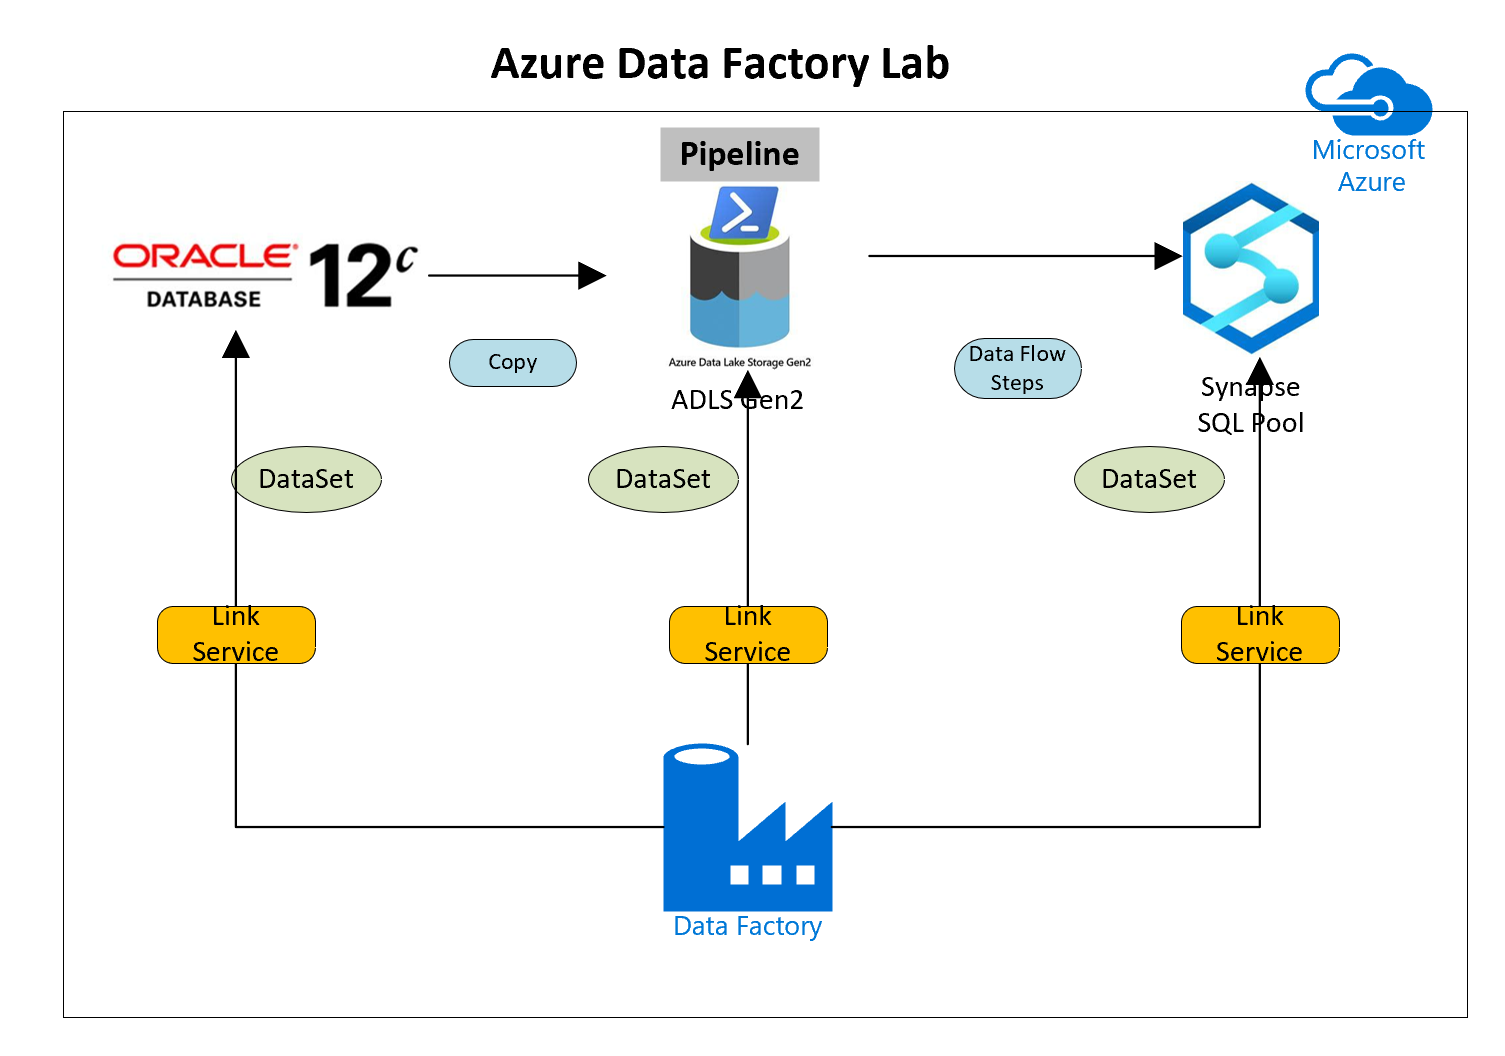
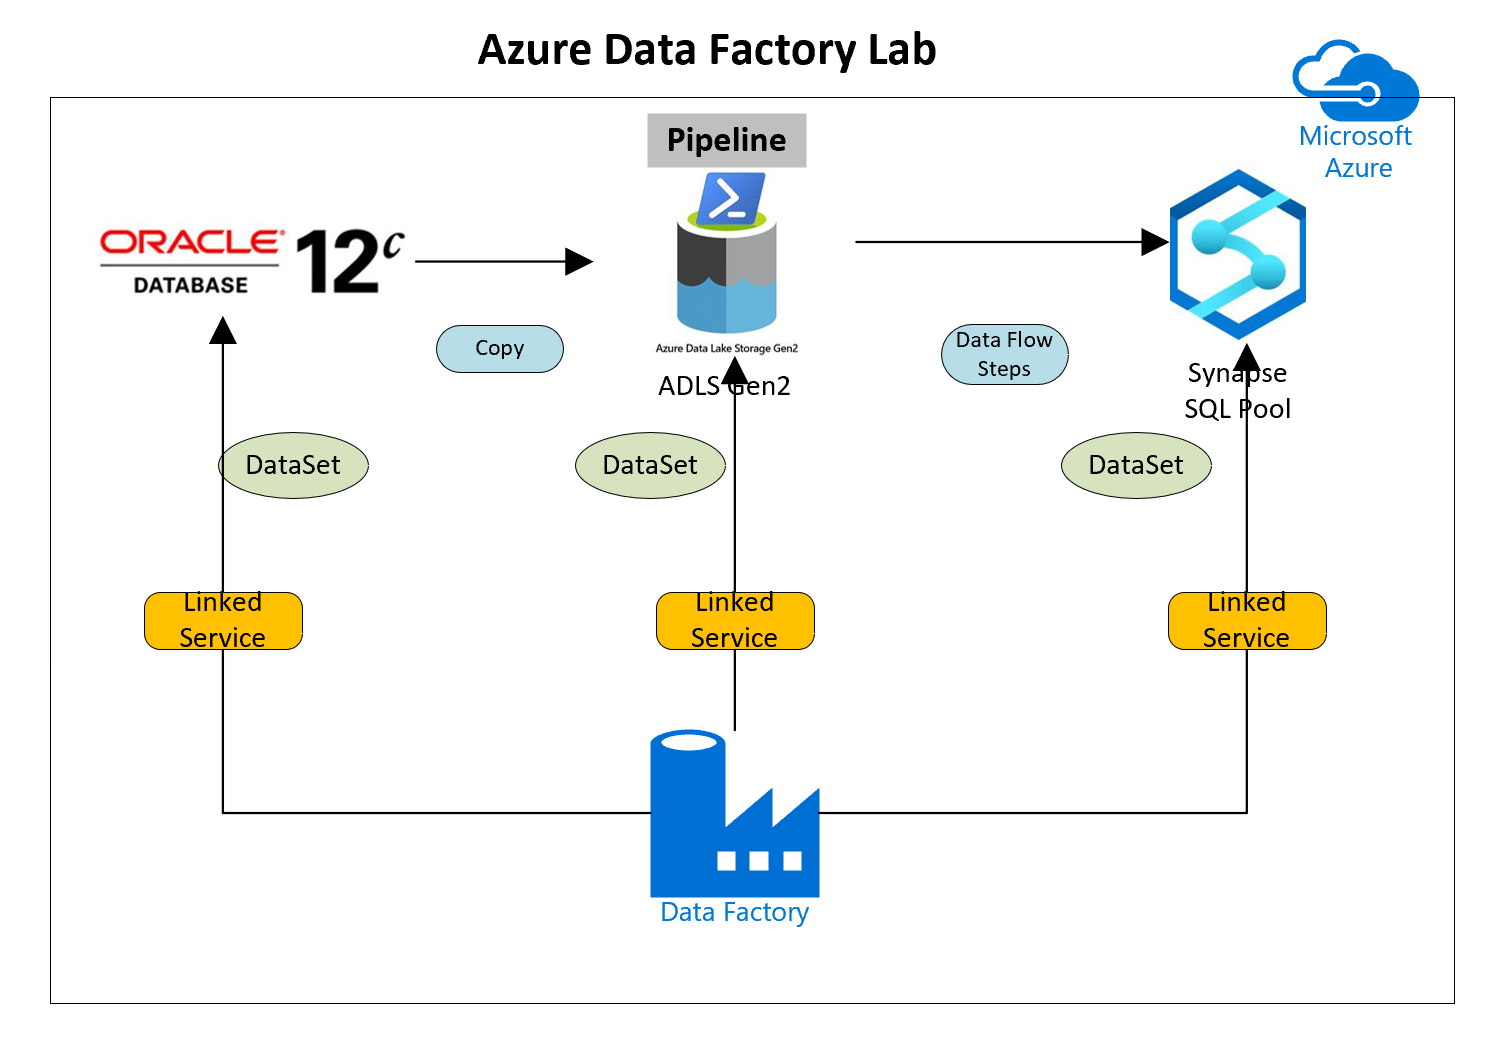
Review the content and made formatting changes.

diff --git a/month2/labs/lab_adf/README.md b/month2/labs/lab_adf/README.md
@@ -1,12 +1,12 @@
 # Azure Trailblazer Academy Azure Data Factory (ADF) Lab
 ## Overview
-Azure Data Factory is the PaaS cloud-based ETL & data integration tool allows you to create data driven workflows in the cloud for orchestrating and automating data movement and data transformation. 
+Azure Data Factory is a PaaS cloud-based ETL & data integration tool allows you to create data driven workflows in the cloud for orchestrating and automating data movement and data transformation. 
 
-Big data requires service that can orchestrate and operationalize processes to refine these enormous stores of raw data into actionable business insights.
+It is a great tool to orchestrate big data and operationalize processes to refine these enormous stores of raw data into actionable business insights.
 
 ## Lab Overview
 This lab will help you gain the experience to ingest data from on-premises databases such as Oracle, SAP, Teradata, Hortonworks, DB2, SQL Server and Cloudera to Azure Data storage, databases and data warehouses services. 
-It will showcase the steps to build a pipeline inside ADF to ingest the data into ADLS GEN2 storage and secure the PII data using data transformation functions inside the Data Flow activity and finally store the data in Synapse SQL Pool (Data warehouse) for building BI dashboard. 
+It will showcase the steps to build a pipeline using ADF to ingest the data into ADLS GEN2 storage and secure the PII data using data transformation functions using the Data Flow activity and finally store the data in Synapse SQL Pool (Data warehouse) for building BI dashboards. 
 
 <img src="./images/ata-adf-lab-architecture.png" alt="Data factory lab architecture diagram" width="600">
 
@@ -16,15 +16,15 @@ It will showcase the steps to build a pipeline inside ADF to ingest the data int
 - Write Access to Synapse SQL Pool Data warehouse  
 
 ## Automated Deployment
-We try to help with the automated deployment to create Azure srevices. Press the "*Deploy to Azure*" button below, to provision the Azure Services required required for this lab.
+This automated deployment script will create thre required Azure srevices for this lab. Press the "*Deploy to Azure*" button below.
 
 <a href="https://portal.azure.com/#create/Microsoft.Template/uri/https%3A%2F%2Fraw.githubusercontent.com%2Fmicrosoft%2FAzureTrailblazerAcademy%2Fmaster%2Fmonth2%2Flabs%2Flab_data%2Fscripts%2Flab2_data_deployment.json" target="_blank"><img src="https://azuredeploy.net/deploybutton.png"/></a>
 
-- Enter the following information
+Enter the following information
 - Subscription: Enter your subscription.
-- Resource group: Select 'Create new' under Resource group. Enter 'ata-adf-lab-/<yourname/>-rg'
+- Resource group: Select 'Create new' under Resource group. Enter 'ata-adf-lab-\<YourName\>-rg'
 - Region: Select 'East US'.
-- SQL_Server Name:Enter 'ata-adf-lab-sql-/<yourname/>'
+- SQL_Server Name:Enter 'ata-adf-lab-sql-\<YourName\>'
 - Server_location:Enter 'eastus'
 
 <img src="./images/adf-custom-deployment.png" alt="Enter the required info to run the custom deployment" width="600">
@@ -32,15 +32,15 @@ We try to help with the automated deployment to create Azure srevices. Press the
 - AdministratorLogin:'azureadmin'
 - Administrator Login Password:'Ataadf123!'
 - Database Name:'ataadflabsqldb'
-- Storage_Accounts_Data Lake Gen2:'ataadflabstorage/<srini/>/
+- Storage_Accounts_Data Lake Gen2:'ataadflabstorage\<YourName\>/
 - Click on 'Review and Create'
 - Click on 'Create'
 
-- Please check if it created the following services after successful deploypment.
+Please check if it created the following services after successful deploypment.
 
 <img src="./images/adf-custom-deployed-services.png" alt="Customer deployed Azure Services" Width="600">
 
-- We will provide temporary access to an Oracle database for completing this lab in the class.
+Temporary access to an Oracle database for completing this lab will be provided in the class.
 
 ## Task List
 - [Task-1: Create Azure Data Factory Service](#task-1-create-azure-data-factory-service)
@@ -55,30 +55,33 @@ We try to help with the automated deployment to create Azure srevices. Press the
 - Select 'Data factories' and select 'add' to create a new service
 
 Provide the following info: 
-- Name: 'ata-adf-lab-\<yourname\>'
-- Subscription: Make sure it selected the correct subscription
-- Select 'ata-adf-lab-\<yourname\>', the resource group you have created with custom deployment. 
+- Name: 'ata-adf-lab-\<YourName\>'
+- Subscription: Make sure to select your subscription
+- Select 'ata-adf-lab-\<YourName\>', the resource group you have created with custom deployment. 
 - Location: select 'East US'
 - Enable GIT: uncheck the box
+
 Click on 'Create' button  
 
 <img src="./images/adf-main-service-create.png" alt="Create ADF Service" width="600">
+
 2. Open ADF Author Tool
-- select 'Go to resource' when it completes the deployment
-- select 'Author & Monitor' in the middle of the screen
+- Select 'Go to resource' when it completes the deployment.
+- Select 'Author & Monitor' in the middle of the screen.
 
 <img src="./images/adf-select-author.png" alt="Select Author & Monitor" width="600">
 
-opens up a new tab introducing the drag and drop interface to build pipelines
+Opens up a new tab introducing the drag and drop interface to build pipelines.
 
 <img src="./images/adf-select-create-pipeline.png" alt="select create pipeline" width="600">
 
 ### Task-2: Create linked services
-You will be creating connection link services to sync and source systems such as Oracle, ADLS Gen2 and Synapse. 
+You will be creating connection linked services to sync and source systems such as Oracle, ADLS Gen2 and Synapse in this task. 
 1. Create Oracle Linked Service
 - select Management hub (ToolBox) icon on the left and select 'Linked Services' under Connections section.  
 - Select 'New' under Linked Services
 - search for 'Oracle' under 'Data Store' and select 'Oracle Database' and click on 'Continue'
+
 Enter the following Oracle Connect Info:
 - Name: Enter 'OracleDB12cHR'
 - Leave the default 'Connection string' option
@@ -92,7 +95,8 @@ Enter the following Oracle Connect Info:
 <img src="./images/adf-oracle-connect-info.png" alt="Enter Oracle Connect Info" width="600">
 
 - Select 'test connection' to verify the successful connection
-Click on 'Create' button to create the Oracle linked service
+
+Click on 'Create' button to create the Oracle linked service.
 
 2. Create ADLS Gen2 Storage Linked Service
 - Select 'New' under Linked Services
@@ -115,11 +119,12 @@ Click on 'Create' after successful connection to create the ADLS Gen2 storage li
 
 Enter the folowing info:
 - Name: Enter 'SynapseDBHR'
-- Server name: select 'ata-adf-lab-sql-/<yourname/>'
+- Server name: select 'ata-adf-lab-sql-\<yourname\>'
 - Database name: select 'ataadflabsqldb'
 - User name: enter 'azureadmin'
 - Password: enter the default 'ataadf123!'
-- Click on 'test connect' to test the connection
+- Click on 'test connect' to test the connection.
+
 Click on 'Create' after the successful connection to create the Synapse linked service
 
 <img src="./images/adf-synapse-sink-db-connect-info.png" alt="Enter Synapse sink db connect info" Width="600">
@@ -127,13 +132,14 @@ Click on 'Create' after the successful connection to create the Synapse linked s
 You have successfully created connection linked services to Oracle, ADLS Gen2 and Synapse SQL Pool.
 
 ### Task-3: Copy Oracle HR Emplyee data to Azure Storage
-We have established the connection services to the source Oracle DB and the sink Azure storage, we can create a copy activity to ingest the data.
+We have established the connection services to the source Oracle DB and the sink Azure storage, you will create a copy activity to ingest the data from Oracle to Azure Storage in this task.
+
 1. Select 'Pencil' icon on the left and select three dots next to pipelines to select 'new pipeline' action. 
-- name the pipeline as 'IngestOracleHREmployeeData' under the properties section on the right side.
-- Drag the 'Copy data' from 'Move & transform' section under 'Activities' list to the convas in the middle.
+- Name the pipeline as 'IngestOracleHREmployeeData' under the properties section on the right side.
+- Drag the 'Copy data' from 'Move & transform' section under 'Activities' list to the convas in the middle of the screen.
 - Name the copy activity as 'OracleHREmpToGen2' below the convas under the 'General' tab
 
-<img src="./images/adf-copy-hr-emp-adls-gen2.png" alt="Copy activity to get Oracle HR Emp data to Gen2" width="600">
+<img src="./images/adf-copy-hr-emp-adls-gen2.png" alt="Copy activity to get Oracle HR Emp data to Gen2" width="900">
 
 2. Select 'Source' tab next to 'General' to define the source system. 
 - Select 'New' to create a new source dataset
@@ -143,7 +149,7 @@ We have established the connection services to the source Oracle DB and the sink
 - Select the 'OracleDB12cHR' linked service and click on 'Test connection' to test the connectivity.
 - Filter table list by typing 'hr.emp' and select 'HR.EMPLOYEES' table and select 'Preview data'.
 
-<img src="./images/adf-copy-select-hr-employee-table.png" alt="select Oracle HR table as the source data set" width="600">
+<img src="./images/adf-copy-select-hr-employee-table.png" alt="select Oracle HR table as the source data set" width="900">
 
 Make sure you are able to see the employee data 
 
@@ -153,10 +159,11 @@ Make sure you are able to see the employee data
 - Select 'Open' to define the sink dataset
 - Select 'Delimited Text' as the format and click on 'Continue'
 - Name the dataset as 'Gen2HREmpData'
-- select the 'Gen2HRStorage' linked service
+- select the 'Gen2HRStorage' linked service.
+
 You will have to enter the file system and directory path. 
-First we need to create the directory path in the storage accont. Leave this browser tab as is and switch to the Azure Services tab in the browser.  
-- Access storage account and open up the 'storage explorer' to create 'hr' under 'data' file system and create 'employee' as a subfolder under 'hr' folder.
+- First we need to create the directory path in the storage accont. Leave this browser tab as is and switch to the Azure Services tab in the browser.  
+- Access storage account and open up the 'storage explorer' to create 'hr' under 'data' file system and create 'Employee' as a subfolder under 'hr' folder.
 
 <img src="./images/adf-storage-create-employee-folder.png" alt="Gen2 storage create employee folder" width="600">
 
@@ -164,8 +171,8 @@ Switch back to ADF author browser and enter 'data' and 'hr/Empolyee' as the File
 
 <img src="./images/adf-copy-sink-gen2-dataset.png" alt="create sink gen2 data set" width="600">
 
-- select it again under Datasets to set the first row as the header.
-- check the box 
+- Select it again under Datasets section on the left to set the first row as the header.
+- Check the box 
 
 <img src="./images/adf-copy-sink-gen2-row-header.png" alt="sink-gen2-check-header-row" width="600">
 
@@ -175,35 +182,42 @@ Switch back to ADF author browser and enter 'data' and 'hr/Empolyee' as the File
 
 <img src="./images/adf-copy-trigger-activity.png" alt="execture copy activity to ingest data" width="600">
 
-5. Verify the data ingestion in ADLS Gen2 storage
+5. Verify the data ingestion in ADLS Gen2 storage.
+
 Switch to Azure services tab and access the storage account.
 - open up the 'Storage Explorer' and access the data file syste and drill down to 'hr' and 'Employee' folder. 
-- Confirm the 'HR.EMPLOYEES.txt' file. Double click on the file to download and view the file.
+- Confirm the 'HR.EMPLOYEES.txt' file. Double click on the file to download and view the data.
+
 You can see how the phone numbers are ingested as text. This is PII data and we should protect this data. 
 
 <img src="./images/adf-storage-ingest-confirm.png" alt="Verify data ingestion to Gen2 from Oracle" width="600">
 
 ### Task-4: Secure PII Employee data with Data Flows
-We have notieced the PII data we just ingested into ADLS Gen2 storage. Let us see how we can secure the PII data using the Data flow functionality.
- 
-- Drag and drop the data flow activity into the canvas from the Move&Transform section.
+We have noticed the PII data we just ingested into ADLS Gen2 storage. You will secure the PII data using the Data flow functionality in this task.
+ 1. Create Source data
+- Drag and drop the data flow activity into the canvas from the 'Move&Transform' section.
 - select 'create new data flow' and select 'Mapping Data Flow' optin and click on 'Ok'.
 
-<img src="./images/adf-dataflow-create-new.png" alt="create a new data flow" width="600">
+<img src="./images/adf-dataflow-create-new.png" alt="create a new data flow" width="400">
 
 - Select "Source" data
-- Name the data flow as 'SecurePIIdata'
-- Provide the following information under 'Source settings' tab
+- Name the data flow as 'SecurePIIdata'.
+
+Provide the following information under 'Source settings' tab:
 - Output stream name:Gen2HrEmpDataOut
 - Source type - Select 'Dataset'
 - Dataset - Select 'Gen2HREmpData'
 
 <img src="./images/adf-dataflow-source-settings.png" alt="Provide source settings info" width="600">
 
-- To preview data we need to turn on the dataflow debug option and need to click on 'Import projections' in 'Projections' tab.
+2. Turn on Dataflow Debug functionality to test the modifications.
+
+- To preview data we need to turn on the dataflow debug option. 
+- Click on 'Import projections' in the 'Projections' tab to view all the columns.
 
 <img src="./images/adf-dataflow-turnon-debug-import-projections.png" alt="Turn on the debug option and import projections" width="500">
 
+3. Create a data flow step to hash the first 6 digits of the phone number.
 - Add another data flow step to secure the phone number by selecting '+' sign and select 'Drived Column' under 'Schema modifier' section.
 
 <img src="./images/adf-dataflow-derived-column.png" alt="Select derived column" width="600">
@@ -220,13 +234,13 @@ We have notieced the PII data we just ingested into ADLS Gen2 storage. Let us se
 
 <img src="./images/adf-dataflow-regreplace-function.png" alt="Enter RegEx Replace function" width="800">
 
-- We are now ready to output the transformed data into Synapse SQL Pool
-- Select '+' and select 'Sink' in the 'Destination' section. Last one in the list.
+4. Create 'HR' schema in Azure Synapse Analytics.
 
-- Create HR schema in the destination to store the results
-- Switch to Azure Services tab and select Azure Synapse Analytics 'ataadflabsqldb' we have created
--  select 'Query editor' on the left and enter the 'azureadmin' as the user and 'Ataadf123!' as the password.
-- It may error out since it is protecting the access to 'Query editor'. Take the IP address from the error and add it to the firewall.
+We need to create 'HR' schema in the 'Azure Synapse Analytics' service to store the results
+- Switch to Azure Services tab and select Azure Synapse Analytics 'ataadflabsqldb' we have created with the auto deployment step.
+
+-  Select 'Query editor' on the left and enter the 'azureadmin' as the user and 'Ataadf123!' as the password.
+- It will error out since it is protecting the access to 'Query editor'. Copy the IP address from the error and add it to the firewall.
 
 <img src="./images/adf-synapse-query-editor-error.png" alt="Synapse-query-editor-access-error" width="600">
 
@@ -243,14 +257,25 @@ We have notieced the PII data we just ingested into ADLS Gen2 storage. Let us se
 
 <img src="./images/adf-synapse-create-hr-schema.png" alt="Create HR Schema in the Query Editor" width="600">
 
-- Switch back to ADF Author tab and create the synapse SQL Analytics data set
+5. Create a data flow step to store the transformed data into Synapse SQL Pool.
+
+We are now ready to output the transformed data into Synapse SQL Pool
+- Select '+' and select 'Sink' in the 'Destination' section. Last one in the list.
+- Switch back to ADF Author tab and create the Synapse SQL Analytics data set
 - Enter the following info
 - Click on 'Create' button
 - Specify Destination table info, HR schema and Employee Table name.
 
+<img src="./images/adf-dataset-synapse-create.png" alt="Create Synaspe Data Set" width="600">
+
 ### Task-5: Build pipeline and Execute 
-- Connect Copy activity with Data Flow activity
+We have a create copy activity to ingest the data from Oracle to Azure Storage and Dataflow activity to secure PII data. You will connect both activity to build a pipeline to execute the end to end functionality. 
+
+1. Connect Copy activity with Data Flow activity
 - Create a staging linked service to improve the performance of the data flow operations
+
+2. Create a Staging Linked Service to store the temporary data between the dataflow steps.
+
 - Select the data flow in the pipeline diagram and access the 'Settings' tab
 - Click on 'New' 'Staging Linked Service' and enter the following info:
 - Name:'dataflowstaging' 
@@ -264,6 +289,9 @@ We have notieced the PII data we just ingested into ADLS Gen2 storage. Let us se
 <img src="./images/adf-dataflow-staging-linked-service.png" alt="create dataflow staging linked service" width="600">
 
 - Add a folder to the storage
+
+3. Trigger the pipeline execution.
+
 - click on 'Debug' to test the data transformation to secure the PII data and storing it to Synapse SQL Analytics database.
 
 <img src="./images/adf-dataflow-trigger-run.png" alt="Start the debug to test the data movement to Synapse" width="600">
@@ -272,12 +300,16 @@ We have notieced the PII data we just ingested into ADLS Gen2 storage. Let us se
 
 <img src="./images/adf-End-to-End-Execution.png" alt="End to end Execution Status" width="600">
 
+4. Test the transformed data in Azure Synapse Analytics.
+
 - Switch to Azure Services and access the Synapse SQL Analytics to verify the employee data with secured phone numbers
 - Access synapse SQL Analytics 'ataadflabsqldb' and select 'Query editor' from 'Common Tasks' section.
 - Login with 'azureadmin' and password 'Ataadf123!' if needed.
 - Enter 'select * from [HR].[Employee]' to view the ingested Oracle data.
 - You should see all the employee data with the secured phone number.
 <img src="./images/adf-lab-synapse-secure-PII-verify.png" alt="Verify ingested data in Synapse with secured phone number" width="600">
+
+Congratulations!! You have successfully ingested the data from Oracle to Azure Datalake, transformed the data as per your needs such as securing the data and stored the data into Azure Synapse Analytics for your business analytics needs.
 
 
 
